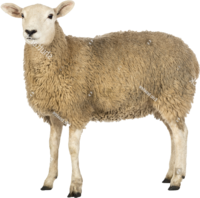
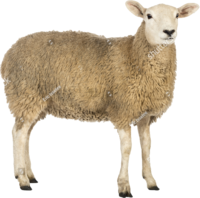
player mirroring

diff --git a/_frontend/js/game/Player.js b/_frontend/js/game/Player.js
@@ -15,10 +15,12 @@ class Player extends PIXI.Sprite {
         const tickerHandler = () => {
             if (controls.isPressed(KEY_LEFT)) {
                 this.x -= application.ticker.deltaTime / application.ticker.FPS * PLAYER_MAX_HSPEED;
+                this.scale.x = -1;
             }
 
             if (controls.isPressed(KEY_RIGHT)) {
                 this.x += application.ticker.deltaTime / application.ticker.FPS * PLAYER_MAX_HSPEED;
+                this.scale.x = 1;
             }
 
             if (this.isInAir) {
